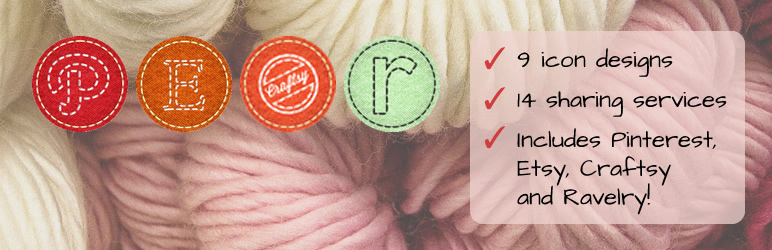
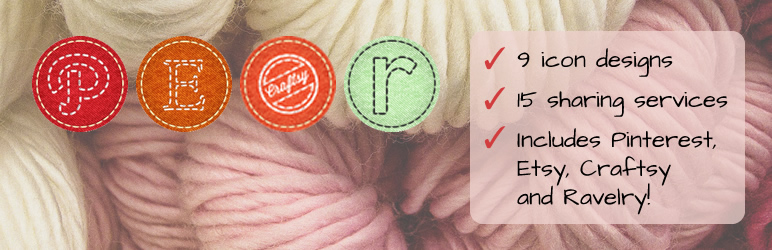
Added YouTube

Changed region(s): [[0.6528, 0.364, 0.9637, 0.476]]

diff --git a/src/buttons/simple/youtube.htm b/src/buttons/simple/youtube.htm
@@ -1,0 +1,12 @@
+<!DOCTYPE html PUBLIC "-//W3C//DTD XHTML 1.0 Transitional//EN"
+"http://www.w3.org/TR/xhtml1/DTD/xhtml1-transitional.dtd">
+<!-- saved from url=(0014)about:internet -->
+<html xmlns="http://www.w3.org/1999/xhtml">
+<head>
+<title>youtube</title>
+<meta http-equiv="Content-Type" content="text/html; charset=utf-8" />
+<!--Fireworks CS5 Dreamweaver CS5 target.  Created Tue Feb 04 18:41:45 GMT+1300 (New Zealand Daylight Time) 2014-->
+</head>
+<body bgcolor="#cd332d">
+<img name="youtube" src="images/youtube.png" width="64" height="64" border="0" id="youtube" alt="" /></body>
+</html>

diff --git a/src/services/class-SH_YouTube.php b/src/services/class-SH_YouTube.php
@@ -1,0 +1,48 @@
+<?php
+/**
+ * SH_YouTube Class
+ * @author 		Sarah Henderson
+ * @date			2013-12-26
+ */
+ 
+if ( ! defined( 'ABSPATH' ) ) exit; // Exit if accessed directly
+	
+// widget class
+class SH_YouTube extends SH_Social_Service {
+	
+	public function __construct($newWindow, $imageSet, $settings) {
+		parent::__construct($newWindow, $imageSet, $settings);
+		$this->service = "YouTube";
+	}
+
+	
+	public function shareButton($url, $title = '', $showCount = false) {
+		return '';
+	}
+	
+	public function linkButton($username) {
+		
+		$url = "http://youtube.com/user/$username";
+		$html = '<a class="' . $this->cssClass() 
+				. '" href="'. $url. '" ' 
+				. ($this->newWindow ? 'target="_blank"' : '') 
+				. '>';
+	
+		$html .= $this->buttonImage();	
+		
+		$html .= '</a>';
+	
+		return $html;
+	}
+	
+	public static function canShare() {
+		return false;	
+	}
+
+	public static function description() {
+		return "Hint: youtube.com/user/<strong>user-id</strong>";	
+	}
+
+}
+
+?>

diff --git a/src/crafty-social-buttons.php b/src/crafty-social-buttons.php
@@ -15,7 +15,7 @@
  * Plugin Name: Crafty Social Buttons
  * Plugin URI:  http://github.com/sarahhenderson/crafty-social-buttons
  * Description: Adds social sharing buttons and links to your site, including Ravelry, Etsy, Craftsy and Pinterest
- * Version:     1.0.8
+ * Version:     1.0.9
  * Author:      Sarah Henderson
  * Author URI:  http://sarahhenderson.info
  * Text Domain: crafty-social-button

diff --git a/src/class-SH-Crafty-Social-Buttons-Plugin.php b/src/class-SH-Crafty-Social-Buttons-Plugin.php
@@ -12,7 +12,7 @@ class SH_Crafty_Social_Buttons_Plugin {
 	/**
 	 * Plugin version, used for cache-busting of style and script file references.
 	 */
-	protected $version = '1.0.8';
+	protected $version = '1.0.9';
 
 	/**
 	 * Unique identifier for this plugin.
